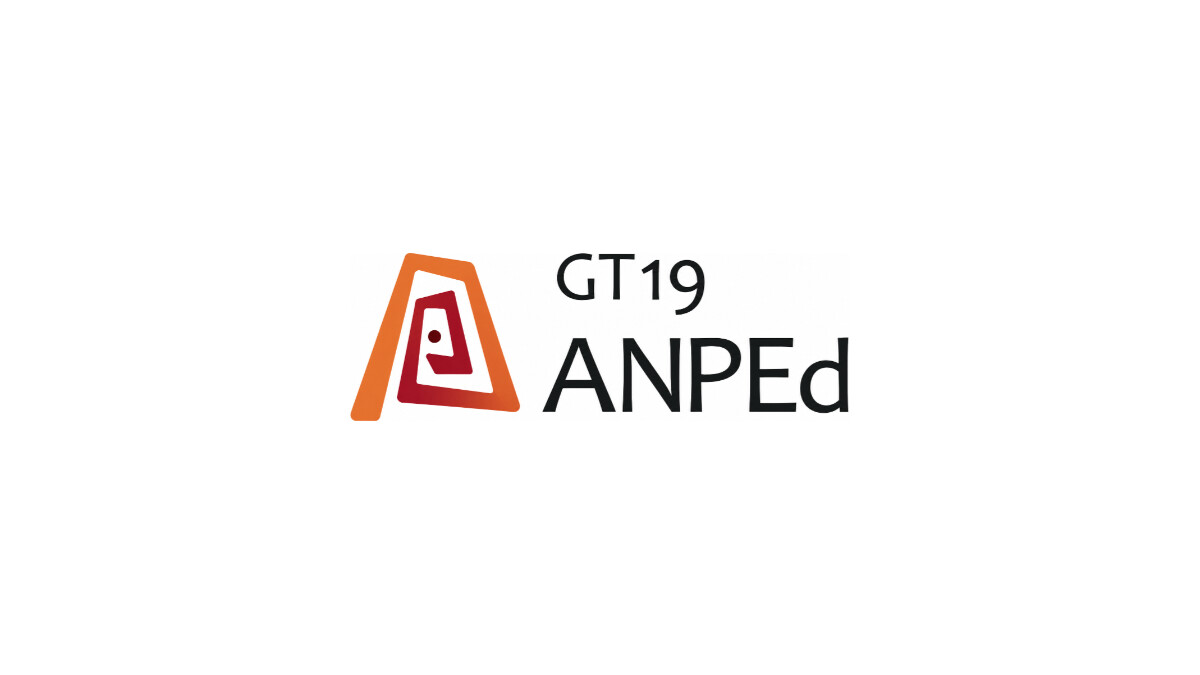
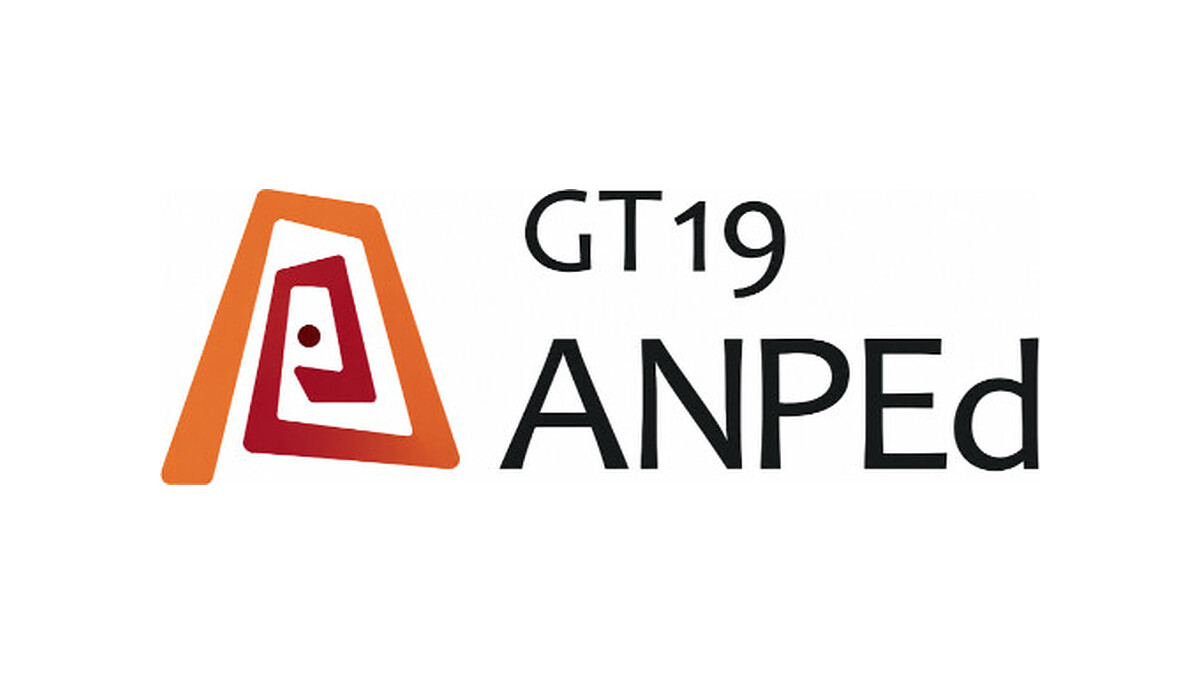
Build Quarto site

Changed region(s): [[0.1233, 0.28, 0.8633, 0.7156], [0.4317, 0.28, 0.6783, 0.4667]]

diff --git a/docs/projetos/index.html b/docs/projetos/index.html
@@ -429,7 +429,7 @@ window.Quarto = {
 <h2 class="anchored" data-anchor-id="projetos-de-memória-científica">Projetos de memória científica</h2>
 <div id="listing-memoria" class="quarto-listing quarto-listing-container-grid">
 <div class="list grid quarto-listing-cols-3">
-<div class="g-col-1" data-index="0" data-categories="TWVtJUMzJUIzcmlhJTIwY2llbnQlQzMlQURmaWNh" data-listing-file-modified-sort="1795294609321" data-listing-reading-time-sort="1" data-listing-word-count-sort="110">
+<div class="g-col-1" data-index="0" data-categories="TWVtJUMzJUIzcmlhJTIwY2llbnQlQzMlQURmaWNh" data-listing-file-modified-sort="1795294999034" data-listing-reading-time-sort="1" data-listing-word-count-sort="110">
 <a href="../projetos/memoria/conferencia-1999/index.html" class="quarto-grid-link no-external-icon">
 <div class="quarto-grid-item card h-100 card-left">
 <p class="card-img-top">
@@ -445,7 +445,7 @@ Experiências e Expectativas do Ensino de Estatística, Florianópolis, 1999.
 </div>
 </div></a>
 </div>
-<div class="g-col-1" data-index="1" data-categories="TWVtJUMzJUIzcmlhJTIwY2llbnQlQzMlQURmaWNh" data-listing-file-modified-sort="1795294609322" data-listing-reading-time-sort="1" data-listing-word-count-sort="73">
+<div class="g-col-1" data-index="1" data-categories="TWVtJUMzJUIzcmlhJTIwY2llbnQlQzMlQURmaWNh" data-listing-file-modified-sort="1795294999034" data-listing-reading-time-sort="1" data-listing-word-count-sort="73">
 <a href="../projetos/memoria/eiem/index.html" class="quarto-grid-link no-external-icon">
 <div class="quarto-grid-item card h-100 card-left">
 <p class="card-img-top">
@@ -461,7 +461,7 @@ Acervo digital do Encontro de Investigação em Educação Matemática, em Portu
 </div>
 </div></a>
 </div>
-<div class="g-col-1" data-index="2" data-categories="TWVtJUMzJUIzcmlhJTIwY2llbnQlQzMlQURmaWNh" data-listing-file-modified-sort="1795294609322" data-listing-reading-time-sort="1" data-listing-word-count-sort="95">
+<div class="g-col-1" data-index="2" data-categories="TWVtJUMzJUIzcmlhJTIwY2llbnQlQzMlQURmaWNh" data-listing-file-modified-sort="1795294999035" data-listing-reading-time-sort="1" data-listing-word-count-sort="95">
 <a href="../projetos/memoria/gt19/index.html" class="quarto-grid-link no-external-icon">
 <div class="quarto-grid-item card h-100 card-left">
 <p class="card-img-top">
@@ -477,7 +477,7 @@ História, encontros e produção científica do GT 19 da ANPEd.
 </div>
 </div></a>
 </div>
-<div class="g-col-1" data-index="3" data-categories="TWVtJUMzJUIzcmlhJTIwY2llbnQlQzMlQURmaWNh" data-listing-file-modified-sort="1795294609322" data-listing-reading-time-sort="1" data-listing-word-count-sort="85">
+<div class="g-col-1" data-index="3" data-categories="TWVtJUMzJUIzcmlhJTIwY2llbnQlQzMlQURmaWNh" data-listing-file-modified-sort="1795294999035" data-listing-reading-time-sort="1" data-listing-word-count-sort="85">
 <a href="../projetos/memoria/sipem/index.html" class="quarto-grid-link no-external-icon">
 <div class="quarto-grid-item card h-100 card-left">
 <p class="card-img-top">
@@ -501,7 +501,7 @@ Acervo dos anais do Seminário Internacional de Pesquisa em Educação Matemáti
 <h2 class="anchored" data-anchor-id="ferramentas-para-pesquisa-qualitativa">Ferramentas para pesquisa qualitativa</h2>
 <div id="listing-ferramentas" class="quarto-listing quarto-listing-container-grid">
 <div class="list grid quarto-listing-cols-3">
-<div class="g-col-1" data-index="0" data-categories="RmVycmFtZW50YXMlMjBwYXJhJTIwcGVzcXVpc2ElMjBxdWFsaXRhdGl2YQ==" data-listing-file-modified-sort="1795294609320" data-listing-reading-time-sort="1" data-listing-word-count-sort="81">
+<div class="g-col-1" data-index="0" data-categories="RmVycmFtZW50YXMlMjBwYXJhJTIwcGVzcXVpc2ElMjBxdWFsaXRhdGl2YQ==" data-listing-file-modified-sort="1795294999032" data-listing-reading-time-sort="1" data-listing-word-count-sort="81">
 <a href="../projetos/ferramentas/buscaem/index.html" class="quarto-grid-link no-external-icon">
 <div class="quarto-grid-item card h-100 card-left">
 <p class="card-img-top">
@@ -517,7 +517,7 @@ Buscador de artigos de periódicos de Educação Matemática.
 </div>
 </div></a>
 </div>
-<div class="g-col-1" data-index="1" data-categories="RmVycmFtZW50YXMlMjBwYXJhJTIwcGVzcXVpc2ElMjBxdWFsaXRhdGl2YQ==" data-listing-file-modified-sort="1795294609320" data-listing-reading-time-sort="1" data-listing-word-count-sort="97">
+<div class="g-col-1" data-index="1" data-categories="RmVycmFtZW50YXMlMjBwYXJhJTIwcGVzcXVpc2ElMjBxdWFsaXRhdGl2YQ==" data-listing-file-modified-sort="1795294999033" data-listing-reading-time-sort="1" data-listing-word-count-sort="97">
 <a href="../projetos/ferramentas/cite/index.html" class="quarto-grid-link no-external-icon">
 <div class="quarto-grid-item card h-100 card-left">
 <p class="card-img-top">
@@ -533,7 +533,7 @@ Gerenciador de referências local para macOS e Windows.
 </div>
 </div></a>
 </div>
-<div class="g-col-1" data-index="2" data-categories="RmVycmFtZW50YXMlMjBwYXJhJTIwcGVzcXVpc2ElMjBxdWFsaXRhdGl2YQ==" data-listing-file-modified-sort="1795294609321" data-listing-reading-time-sort="1" data-listing-word-count-sort="83">
+<div class="g-col-1" data-index="2" data-categories="RmVycmFtZW50YXMlMjBwYXJhJTIwcGVzcXVpc2ElMjBxdWFsaXRhdGl2YQ==" data-listing-file-modified-sort="1795294999033" data-listing-reading-time-sort="1" data-listing-word-count-sort="83">
 <a href="../projetos/ferramentas/codificando/index.html" class="quarto-grid-link no-external-icon">
 <div class="quarto-grid-item card h-100 card-left">
 <p class="card-img-top">
@@ -549,7 +549,7 @@ CAQDAS local para análise qualitativa de dados.
 </div>
 </div></a>
 </div>
-<div class="g-col-1" data-index="3" data-categories="RmVycmFtZW50YXMlMjBwYXJhJTIwcGVzcXVpc2ElMjBxdWFsaXRhdGl2YQ==" data-listing-file-modified-sort="1795294609321" data-listing-reading-time-sort="1" data-listing-word-count-sort="96">
+<div class="g-col-1" data-index="3" data-categories="RmVycmFtZW50YXMlMjBwYXJhJTIwcGVzcXVpc2ElMjBxdWFsaXRhdGl2YQ==" data-listing-file-modified-sort="1795294999034" data-listing-reading-time-sort="1" data-listing-word-count-sort="96">
 <a href="../projetos/ferramentas/margem/index.html" class="quarto-grid-link no-external-icon">
 <div class="quarto-grid-item card h-100 card-left">
 <p class="card-img-top">

diff --git a/docs/apresentacoes/index.html b/docs/apresentacoes/index.html
@@ -405,7 +405,7 @@ window.Quarto = {
 
 <div id="listing-talks" class="quarto-listing quarto-listing-container-default">
 <div class="list quarto-listing-default">
-<div class="quarto-post image-right" data-index="0" data-categories="Q29tdW5pY2ElQzMlQTclQzMlQTNv" data-listing-date-sort="1788912000000" data-listing-file-modified-sort="1795294609294" data-listing-date-modified-sort="NaN" data-listing-reading-time-sort="1" data-listing-word-count-sort="113">
+<div class="quarto-post image-right" data-index="0" data-categories="Q29tdW5pY2ElQzMlQTclQzMlQTNv" data-listing-date-sort="1788912000000" data-listing-file-modified-sort="1795294999007" data-listing-date-modified-sort="NaN" data-listing-reading-time-sort="1" data-listing-word-count-sort="113">
 <div class="thumbnail"><a href="../apresentacoes/anped-sudeste-2026/index.html" class="no-external-icon">
 
 <img loading="lazy" src="../apresentacoes/anped-sudeste-2026/featured.png" class="thumbnail-image">

diff --git a/docs/styles.css b/docs/styles.css
@@ -534,8 +534,9 @@ body.quarto-dark .about-link:hover {
 
 /* Imagem de destaque das páginas de projeto (modelo Vancine) */
 .proj-featured {
-  margin: 0 0 1.1rem 1.6rem;
-  max-width: 260px;
+  width: 38%;
+  max-width: 340px;
+  margin: 0 0 1.2rem 1.8rem;
   height: auto;
 }
 
